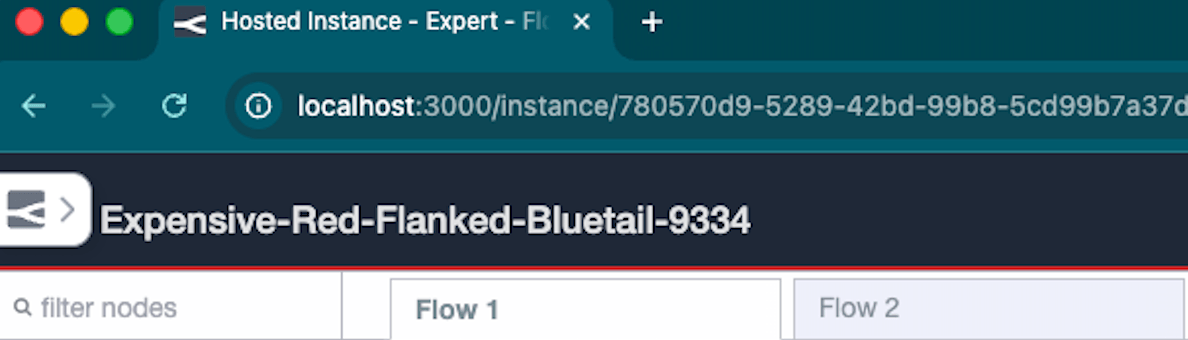
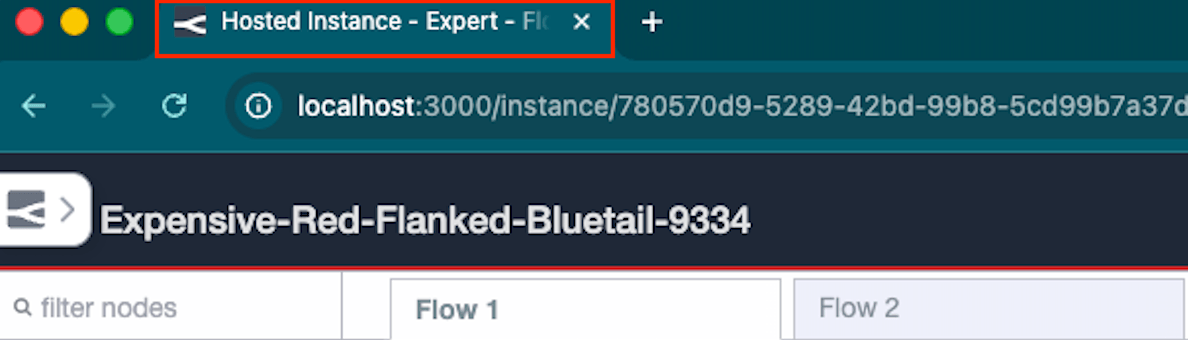
Add user value line and update images

Changed region(s): [[0.1246, 0.0, 0.5295, 0.1765]]

diff --git a/src/changelog/2026/03/embedded-editor-tab-title.md b/src/changelog/2026/03/embedded-editor-tab-title.md
@@ -11,6 +11,8 @@ issues:
 
 Now the browser tab title updates as you navigate the embedded editor. If you're working on a tab called "Sensor Flow", your browser will show `Node-RED: Sensor Flow - FlowFuse`. This works for both hosted and remote device instances, and also updates when you navigate into a subflow.
 
+If you work with multiple editors open at once, you can now tell exactly what's open in each tab without clicking through.
+
 ![Browser tab showing "Node-RED: Flow 1 - FlowFuse" after the update](./images/browser-title-after.png)
 *The browser tab title showing "Node-RED: Flow 1 - FlowFuse" after navigating to the Flow 1 canvas tab.*
 